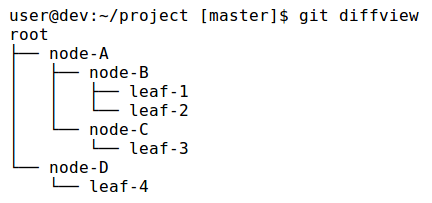
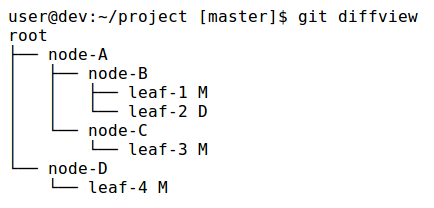
Replace resulting treeview screenshot

Changed region(s): [[0.0, 0.0296, 0.9931, 0.9458]]

diff --git a/README.md b/README.md
@@ -50,9 +50,9 @@ This is what **git diffview** will show you by default.
 
 ![git-diffview](https://raw.githubusercontent.com/opicbernard/git-diffview/master/git-diffview.png)
 
-In the above resulting treeview, you'll easily see that some work has 
-been done on leaf-1, leaf-2, leaf-3, and leaf-4, under the root 
-directory in the master branch of the project.
+In the above resulting treeview, you'll easily see that leaf-1, leaf-3, 
+and leaf-4 have been modified, and leaf-2 deleted, under the root 
+directory in the project's master branch.
 
 It's now straigthforward to visualize what part of the project tree get 
 touched.
